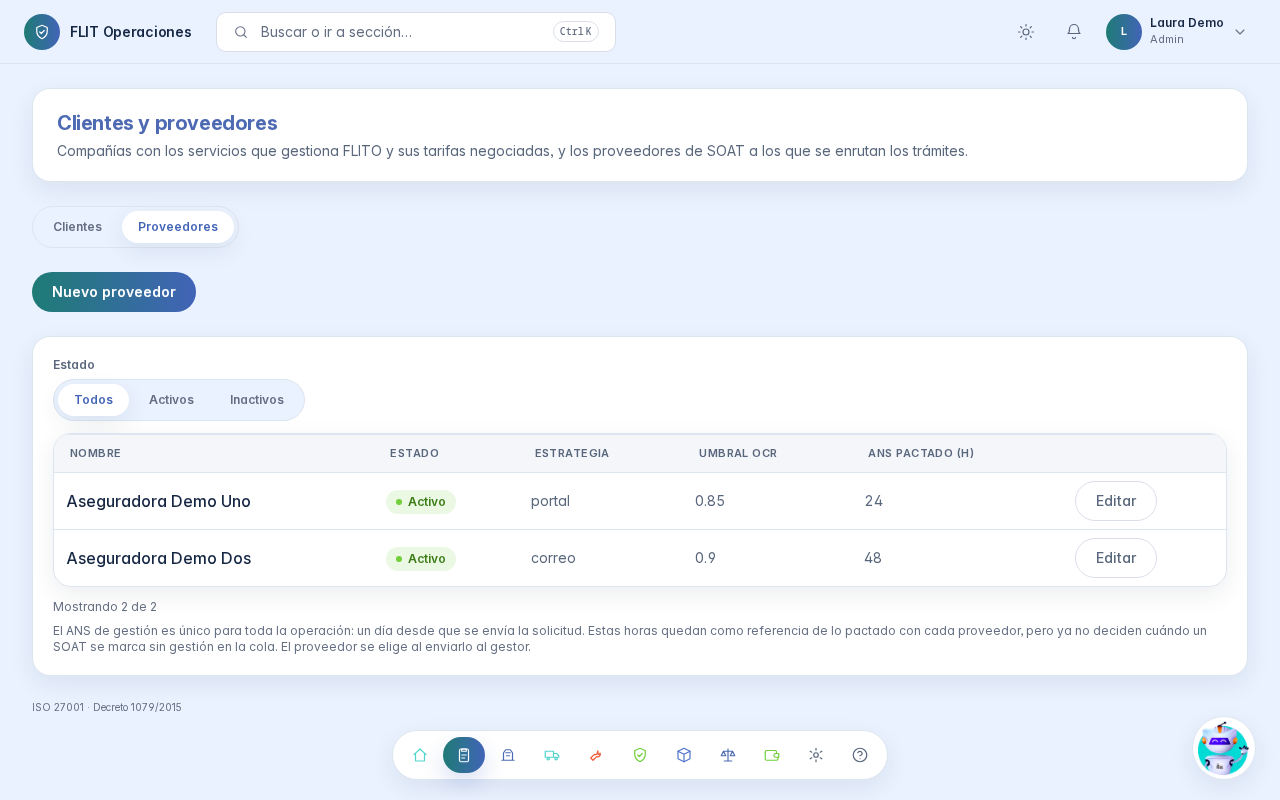
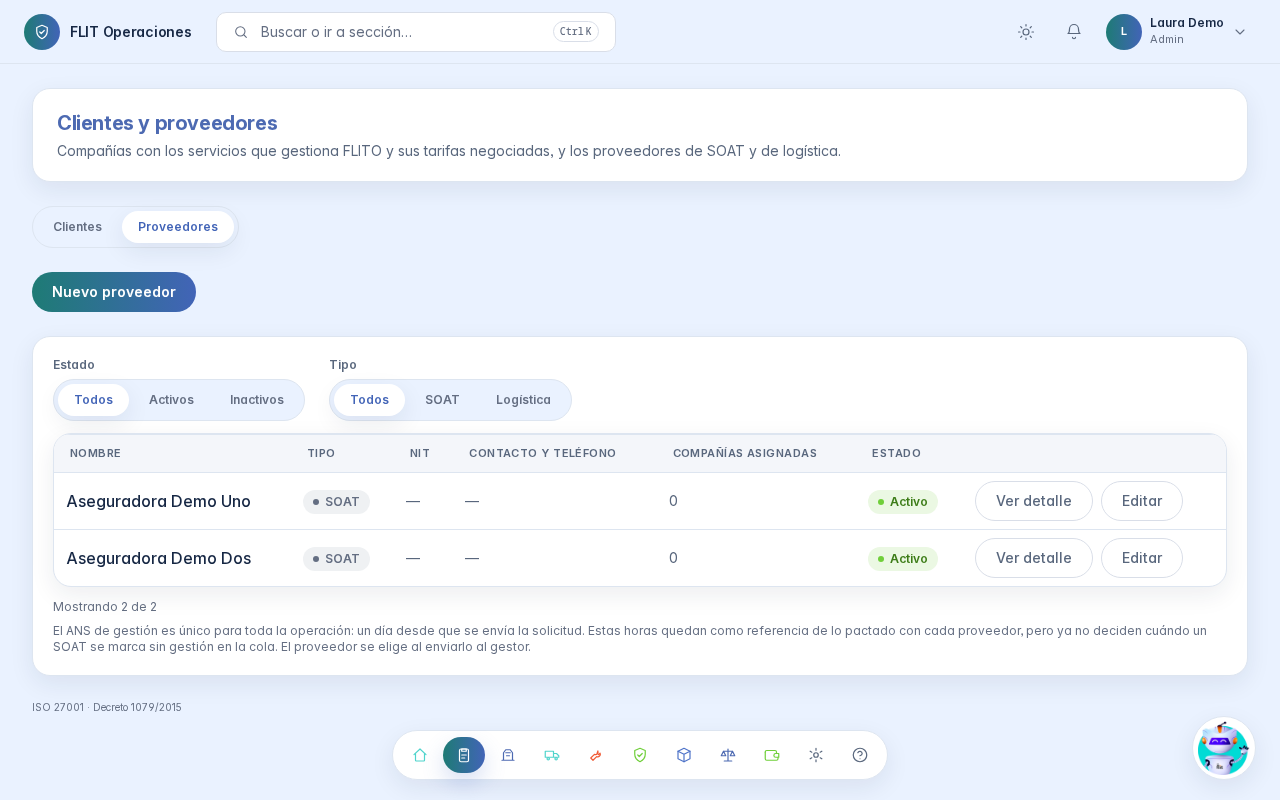
docs(ayuda): ficha clients 2.3 y capturas regeneradas con los datos del servidor (HU #14162)
Sube version/fecha (D7), actualiza el spec de artefactos y regenera 01/02/03 con el
modal Editar y el listado unificado de proveedores.

diff --git a/apps/web/e2e/tests/ayuda-capturas.capturas.spec.ts b/apps/web/e2e/tests/ayuda-capturas.capturas.spec.ts
@@ -1148,8 +1148,18 @@ test.describe('Ayuda FLITO — capturas con datos demo @capturas', () => {
   test('clients @capturas', async ({ page }) => {
     const dir = prepararCarpeta('clients');
     const api = await interceptarApiDemo(page, [
-      [/\/api\/clients$/, () => ({ body: CLIENTES_FICHA_DEMO })],
+      // HU #14162: `GET /clients` ya trae el proveedor de logística (id y nombre).
+      [/\/api\/clients$/, () => ({
+        body: (CLIENTES_FICHA_DEMO as any[]).map((c) => (c.logisticaAutogestionable
+          ? { ...c, proveedorLogisticaId: null, proveedorLogisticaNombre: null }
+          : { ...c, proveedorLogisticaId: '11111111-aaaa-4aaa-8aaa-111111111111', proveedorLogisticaNombre: 'Logística Demo' })),
+      })],
       [/\/api\/flito\/parametrizacion\/proveedores-soat$/, () => ({ body: PROVEEDORES_SOAT_DEMO })],
+      [/\/api\/flito\/parametrizacion\/proveedores-logistica$/, () => ({ body: [] })],
+      // HU #14162: la pestaña Proveedores lee el listado unificado del servidor.
+      [/\/api\/flito\/parametrizacion\/proveedores$/, () => ({
+        body: (PROVEEDORES_SOAT_DEMO as any[]).map((p) => ({ tipo: 'soat', id: p.id, nombre: p.nombre, nit: null, contacto: null, telefono: null, activo: p.activo, companiasAsignadas: 0 })),
+      })],
       [/\/api\/siigo\/clientes\/validacion\/detalle$/, () => ({ body: SIIGO_VALIDACION_DETALLE_DEMO })],
     ]);
     await entrarComoAdminDemo(page);
@@ -1161,7 +1171,8 @@ test.describe('Ayuda FLITO — capturas con datos demo @capturas', () => {
     await capturar(page, dir, '01-clientes');
 
     // Paso 4 — SOAT sin trámite: el proveedor de la compañía, con el aviso del permiso sin efecto.
-    await page.getByRole('button', { name: new RegExp(`^SOAT sin trámite de ${EMPRESAS_DEMO[2]}`) }).click();
+    // Desde HU #14105 el proveedor se edita en el modal «Editar» de la compañía (el chip ya no es un botón).
+    await page.getByRole('button', { name: `Editar ${EMPRESAS_DEMO[2]}`, exact: true }).click();
     await expect(page.getByRole('dialog')).toBeVisible();
     await capturar(page, dir, '02-soat-sin-tramite', page.getByRole('dialog'));
     await page.keyboard.press('Escape');

diff --git a/apps/web/e2e/tests/flito-ayuda-artefactos.spec.ts b/apps/web/e2e/tests/flito-ayuda-artefactos.spec.ts
@@ -311,7 +311,7 @@ test.describe('FLITO — Ayuda · artefactos AC6/AC7', () => {
     // HU #13955: NIT duplicado bajo el campo y campo Sucursal en el alta (capturas sin cambio: el
     // formulario de alta y la ficha fiscal no salen en ninguna).
     // HU #13961: Proveedores con Estado, filtro y ⋮ para desactivar y activar (03-proveedores regenerada).
-    clients: { version: '2.2', fecha: '2026-10-26', diagrama: 'canal-soat-sin-tramite.svg', capturas: [
+    clients: { version: '2.3', fecha: '2026-10-28', diagrama: 'canal-soat-sin-tramite.svg', capturas: [
       '01-clientes.png', '02-soat-sin-tramite.png', '03-proveedores.png'] },
     flito_tablero: { version: '1.2', diagrama: null, capturas: ['01-indicadores-y-alertas.png', '02-por-estado.png'] },
   };

diff --git a/apps/api/src/modules/flito-dr-flit/ayuda/fichas-ayuda.generated.ts b/apps/api/src/modules/flito-dr-flit/ayuda/fichas-ayuda.generated.ts
@@ -135,8 +135,8 @@ export const FICHAS_AYUDA: readonly FichaAyudaApi[] = Object.freeze([
     "permiso": "clients",
     "etiqueta": "Clientes y proveedores",
     "resumen": "Empresas, servicios que gestiona FLITO y datos comerciales.",
-    "version": "2.2",
-    "fecha": "2026-10-26",
+    "version": "2.3",
+    "fecha": "2026-10-28",
     "palabrasClave": [
       "clientes",
       "proveedores",

diff --git a/apps/web/src/content/ayuda/clients.md b/apps/web/src/content/ayuda/clients.md
@@ -30,8 +30,8 @@ consultas:
   - cómo elimino un proveedor de SOAT
   - por qué no puedo eliminar un proveedor
   - por qué dice que ya existe un proveedor con ese nombre
-version: 2.2
-fecha: 2026-10-26
+version: 2.3
+fecha: 2026-10-28
 ---
 ## Qué es
 
